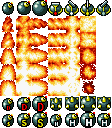
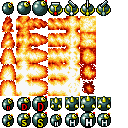
puts bomb

diff --git a/client/js/game/player.js b/client/js/game/player.js
@@ -12,8 +12,8 @@
             bomberman.game.Chara.call(this);
             
             this.sprite = new enchant.Sprite(width, height);
-            this.sprite.x = 16;
-            this.sprite.y = 8;
+            this.sprite.x = 0;
+            this.sprite.y = 0;
             this.sprite.isMoving = false;
             this.sprite.direction = 1;
             this.sprite.walk = 1;
@@ -30,7 +30,8 @@
                         this.walk++;
                         this.walk %= 3;
                     }
-                    if ((this.vx && this.x % 16 == 0) || (this.vy && (this.y-8) % 16 == 0)) {
+                    if ((this.vx && this.x % bomberman.common.CHIP_SIZE == 0) || 
+                        (this.vy && (this.y-8) % bomberman.common.CHIP_SIZE == 0)) {
                         this.isMoving = false;
                     }
                     return true;
@@ -52,8 +53,8 @@
                         this.walk = 1;
                     }
                     if (this.vx || this.vy) {
-                        var x = this.x + (this.vx ? this.vx / Math.abs(this.vx) * 16 : 0) + 8;
-                        var y = this.y + (this.vy ? this.vy / Math.abs(this.vy) * 16 : 0) + 8;
+                        var x = this.x + (this.vx ? this.vx / Math.abs(this.vx) * bomberman.common.CHIP_SIZE : 0) + 8;
+                        var y = this.y + (this.vy ? this.vy / Math.abs(this.vy) * bomberman.common.CHIP_SIZE : 0) + 8;
                         if (0 <= x && x < map.width && 0 <= y && y < map.height && !map.hitTest(x, y)) {
                             this.isMoving = true;
                             arguments.callee.call(this);
@@ -63,14 +64,20 @@
                 return false;
             };
         },
-        setImage: function(assets, imageWidth, imageHeight) {
+        setImage: function(asset, imageWidth, imageHeight) {
             this.image = new enchant.Surface(imageWidth, imageHeight);
-            this.image.draw(assets, 0, 0, imageWidth, imageHeight, 0, 0, imageWidth, imageHeight);
+            this.image.draw(asset, 0, 0, imageWidth, imageHeight, 0, 0, imageWidth, imageHeight);
             this.sprite.image = this.image;
         },
-        setPos: function(x, y) {
-            this.sprite.x = x * 16;
-            this.sprite.y = y * 16 - 8;
+        setMapPos: function(x, y) {
+            this.sprite.x = x * bomberman.common.CHIP_SIZE;
+            this.sprite.y = y * bomberman.common.CHIP_SIZE - 8;
+        },
+        getMapPosX: function() {
+            return this.sprite.x / bomberman.common.CHIP_SIZE;
+        },
+        getMapPosY: function() {
+            return this.sprite.y / bomberman.common.CHIP_SIZE;
         },
         enterFrame: function(map) {
             return this.sprite.enterFrame(map);

diff --git a/client/js/scene/battlescene.js b/client/js/scene/battlescene.js
@@ -10,18 +10,33 @@
         initialize: function() {
             bomberman.scene.SceneBase.call(this);
             var game = enchant.Game.instance;
-            var map = new bomberman.game.Map(game.assets[R.CHIP], 16, 16);
-            var player = new bomberman.game.Player(16, 24);
-            player.setPos(1, 1);
-            player.setImage(game.assets[R.WHITE_BOMBERMAN], 48, 168);
+            game.keybind(90, 'a'); // Zキー = Aボタン
             
+            var CHIP_SIZE = bomberman.common.CHIP_SIZE;
+            var map = new bomberman.game.Map(game.assets[R.CHIP], CHIP_SIZE, CHIP_SIZE);
+            var player = new bomberman.game.Player(16, 24);
+            player.setMapPos(1, 1);
+            player.setImage(game.assets[R.WHITE_BOMBERMAN], 48, 168);
+            var bombGroup = new enchant.Group();
             var stage = new enchant.Group();
             stage.addChild(map.getEnchantMap());
+            stage.addChild(bombGroup);
             stage.addChild(player);
             this.getEnchantScene().addChild(stage);
-             
+            
+            var buttonTrigger = false;
             this.getEnchantScene().addEventListener(enchant.Event.ENTER_FRAME, function(e) {
                 player.enterFrame(map.getEnchantMap());
+                if (game.input.a) {
+                    if (false === buttonTrigger) {
+                        var bomb = new bomberman.game.NormalBomb(game.assets[R.BOMB], CHIP_SIZE, CHIP_SIZE, 48, 16);
+                        bomb.put(player.getMapPosX(), player.getMapPosY());
+                        bombGroup.addChild(bomb);
+                    }
+                    buttonTrigger = true;
+                } else {
+                    buttonTrigger = false;
+                }
             });
         }
     });
@@ -33,7 +48,7 @@
      */
     var R = BattleScene.Resources = {
         ITEM: 'images/item24.png',
-        BOMB: 'images/bomb24.png',
+        BOMB: 'images/bomb16.png',
         CHIP: 'images/chip16.png',
         WHITE_BOMBERMAN: 'images/white16.png',
     };

diff --git a/client/js/game/bomb.js b/client/js/game/bomb.js
@@ -8,8 +8,18 @@
      * @extends {enchant.Group} 
      */
     var BombBase = enchant.Class.create(enchant.Group, {
-        initialize: function() {
+        initialize: function(asset, chipWidth, chipHeight, imageWidth, imageHeight) {
             enchant.Group.call(this);
+            this.sprite = new enchant.Sprite(chipWidth, chipHeight);
+            this.image = new enchant.Surface(imageWidth, imageHeight);
+            this.image.draw(asset, 0, 0, imageWidth, imageHeight, 0, 0, imageWidth, imageHeight);
+            this.sprite.image = this.image;
+            this.sprite.frame = 0;
+        },
+        put: function(x, y) {
+            this.sprite.x = x * bomberman.common.CHIP_SIZE;
+            this.sprite.y = y * bomberman.common.CHIP_SIZE;
+            this.addChild(this.sprite);
         }
     });
     
@@ -19,8 +29,9 @@
      * @extends {bomberman.game.BombBase} 
      */
     var NormalBomb = enchant.Class.create(BombBase, {
-        initialize: function() {
-            BombBase.call(this);
+        initialize: function(asset, chipWidth, chipHeight, imageWidth, imageHeight) {
+            BombBase.call(this, asset, chipWidth, chipHeight, imageWidth, imageHeight);
+            this.sprite.frame = [0, 0, 1, 1, 2, 2, 1, 1, 0, 0];
         }
     });
     

diff --git a/client/js/common/common.js b/client/js/common/common.js
@@ -3,6 +3,11 @@
  */
 (function(global, namespace) {
     /**
+     * 定数定義
+     */ 
+    var CHIP_SIZE = 16;
+
+    /**
      * ドットで区切られた文字列を展開し、グローバル領域に定義していきます。
      * @param {string} str 名前空間用の文字列。
      * @return {object} 最後に定義されたオブジェクト。
@@ -35,4 +40,5 @@
     var ns = addNamespace(namespace);
     ns.addNamespace = addNamespace;
     ns.addResourceArray = addResourceArray;
+    ns.CHIP_SIZE = CHIP_SIZE;
 }(this, "bomberman.common"));
